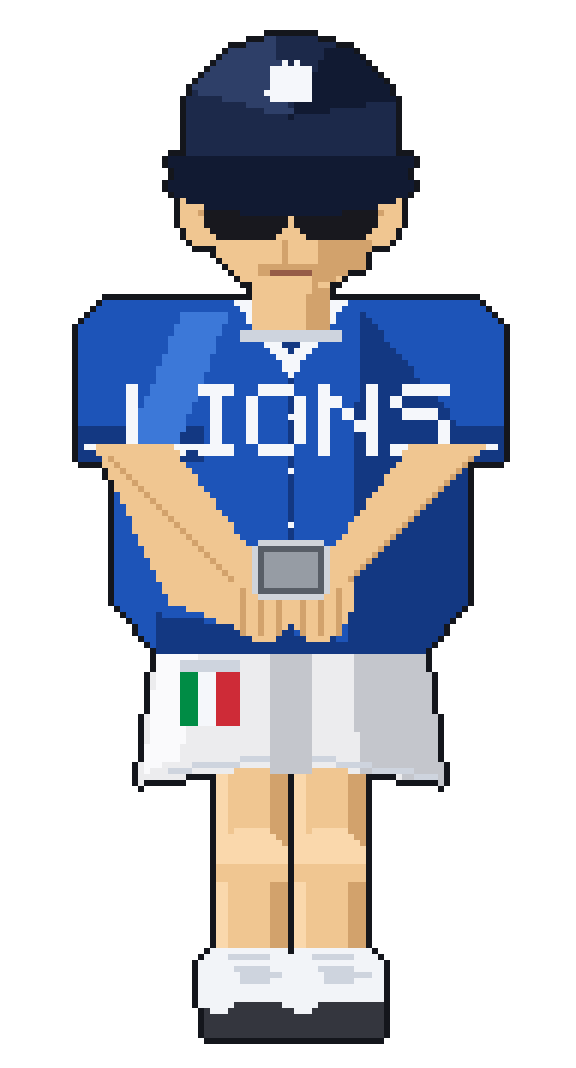
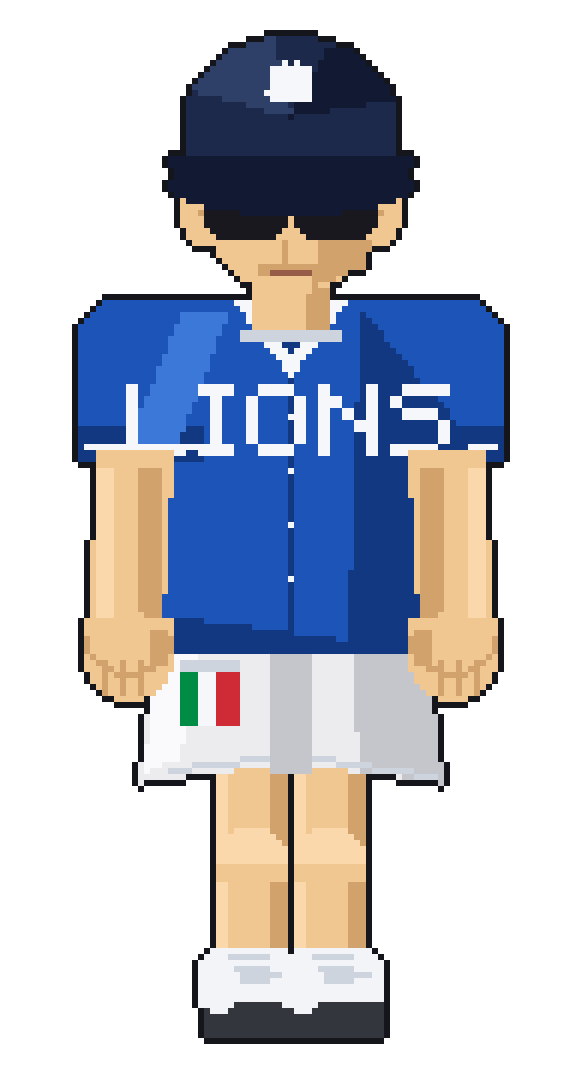
Make arms rest naturally at sides instead of holding phone

Changed region(s): [[0.125, 0.4017, 0.875, 0.6798]]

diff --git a/pixel_char.py b/pixel_char.py
@@ -119,22 +119,29 @@ def draw_text(word, x, y, col, sc=2):
         cx += (w + 1) * sc
 draw_text("LIONS", 21, 64, WHITE, sc=2)
 
-# 팔 (소매 → 가운데 휴대폰)
-poly([(16, 74), (28, 74), (46, 98), (42, 105), (28, 100)], SKIN)
-poly([(68, 74), (80, 74), (54, 100), (50, 105), (50, 98)], SKIN)
-d.line((18, 76, 42, 100), fill=SKIN_S)
-d.line((78, 76, 54, 100), fill=SKIN_S)
-# 손 + 손가락
-ell((38, 92, 49, 106), SKIN)
-ell((47, 92, 58, 106), SKIN)
-for fx in (40, 43, 46):
-    d.line((fx, 98, fx, 105), fill=SKIN_S)
-for fx in (50, 53, 56):
-    d.line((fx, 98, fx, 105), fill=SKIN_S)
-# 휴대폰
-rrect((42, 90, 54, 99), 2, PHONE)
-d.rectangle((43, 91, 53, 98), fill=PHONE_E)
-d.rectangle((44, 92, 52, 97), fill=PHONE_S)
+# 팔 (양옆으로 자연스럽게 내림)
+# 왼팔 (아래팔)
+poly([(16, 75), (28, 75), (26, 106), (15, 104)], SKIN)
+d.rectangle((23, 78, 26, 104), fill=SKIN_S)      # 바깥 음영
+d.rectangle((16, 78, 18, 102), fill=SKIN_H)      # 안쪽 하이라이트
+# 왼손 (살짝 주먹 쥔 형태)
+ell((14, 102, 28, 116), SKIN)
+d.rectangle((14, 103, 28, 108), fill=SKIN)
+d.arc((14, 100, 28, 112), 0, 180, fill=SKIN_S)   # 손등 라인
+for fx in (17, 20, 23):                           # 손가락 구분
+    d.line((fx, 110, fx, 115), fill=SKIN_S)
+d.rectangle((25, 105, 27, 110), fill=SKIN_S)      # 엄지쪽 음영
+# 오른팔
+poly([(68, 75), (80, 75), (81, 104), (70, 106)], SKIN)
+d.rectangle((70, 78, 73, 104), fill=SKIN_S)
+d.rectangle((78, 78, 80, 102), fill=SKIN_H)
+# 오른손
+ell((68, 102, 82, 116), SKIN)
+d.rectangle((68, 103, 82, 108), fill=SKIN)
+d.arc((68, 100, 82, 112), 0, 180, fill=SKIN_S)
+for fx in (73, 76, 79):
+    d.line((fx, 110, fx, 115), fill=SKIN_S)
+d.rectangle((69, 105, 71, 110), fill=SKIN_S)
 
 # =========================================================
 # 목
